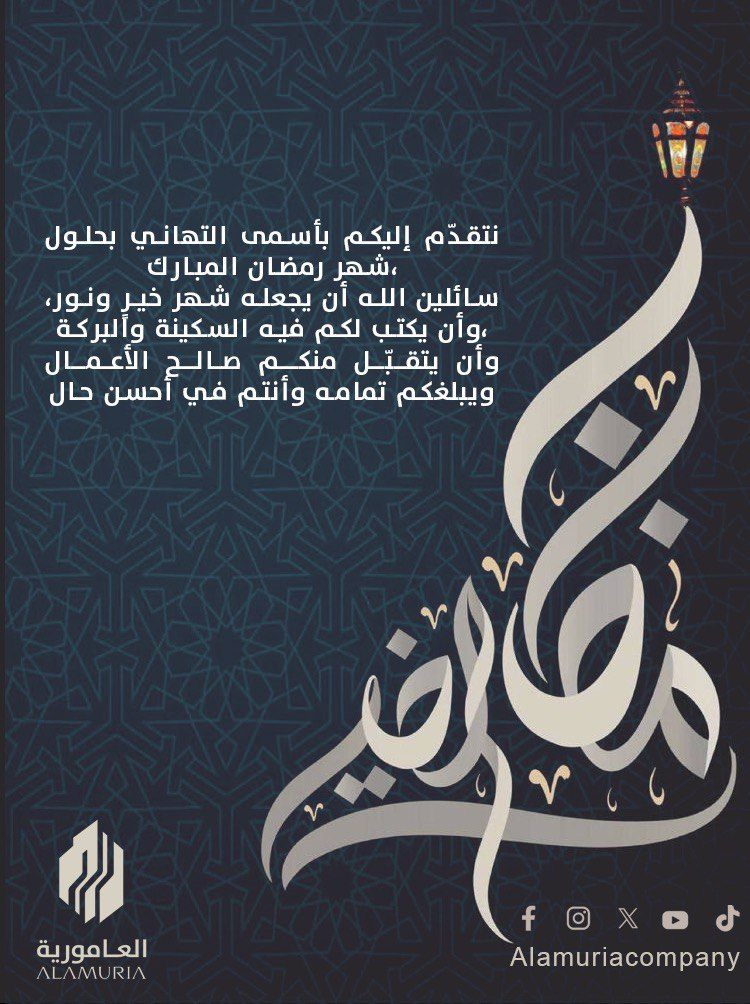
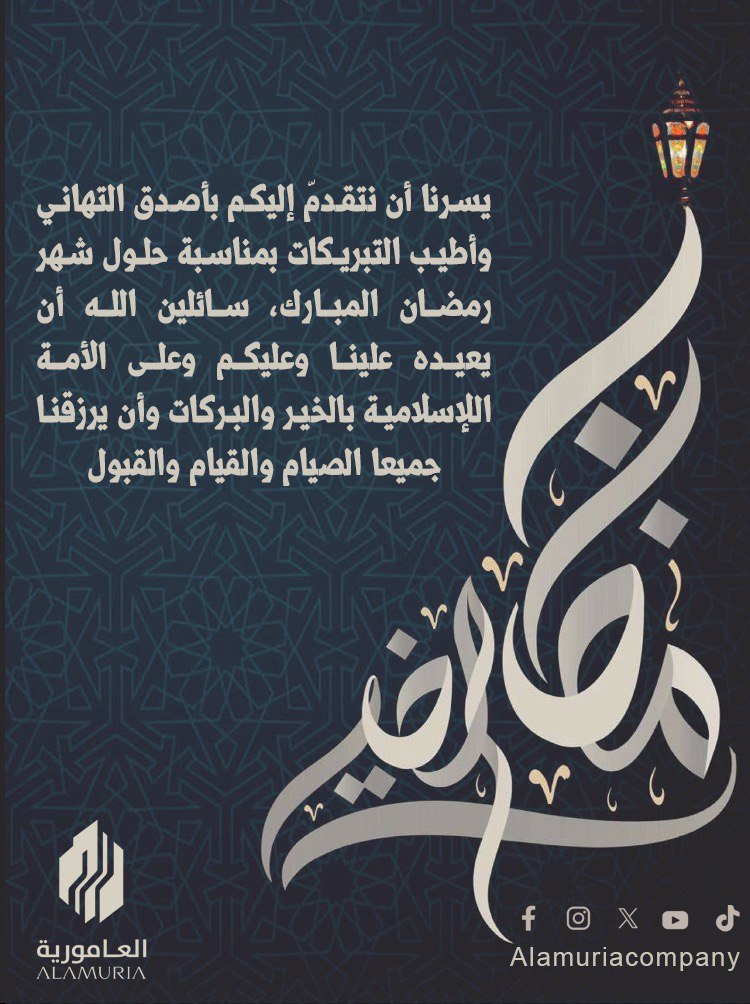
Initial website upload

Changed region(s): [[0.0307, 0.1853, 0.6747, 0.494]]

diff --git a/index.html b/index.html
@@ -179,13 +179,13 @@ function downloadImage() {
         const font = new FontFace('DINNextArabic', 'url("DIN NEXT™ ARABIC REGULAR.otf")');
         font.load().then(function(loadedFont) {
             document.fonts.add(loadedFont);
-            // Now safe to use the font in canvas
+            // Now safe to use the font in canvas (bold)
             let fontSize = 40;
-            ctx.font = fontSize + "px DINNextArabic";
-            ctx.fillStyle = "white";
+            ctx.font = "bold " + fontSize + "px DINNextArabic";
+            ctx.fillStyle = "#cfc9bd";
             ctx.textAlign = "center";
             let textBlockCenter = Math.round(img.width * (180 / 500));
-            const y = Math.round(img.height * (250 / 500));
+            const y = Math.round(img.height * (277 / 500));
             ctx.fillText(name, textBlockCenter, y);
             origCanvas.toBlob(function(blob) {
                 const url = URL.createObjectURL(blob);
@@ -202,7 +202,7 @@ function downloadImage() {
         }).catch(function() {
             alert('تعذر تحميل الخط. سيتم استخدام الخط الافتراضي.');
             let fontSize = 40;
-            ctx.font = fontSize + "px sans-serif";
+            ctx.font = "bold " + fontSize + "px sans-serif";
             ctx.fillStyle = "white";
             ctx.textAlign = "center";
             let textBlockCenter = Math.round(img.width * (180 / 500));
